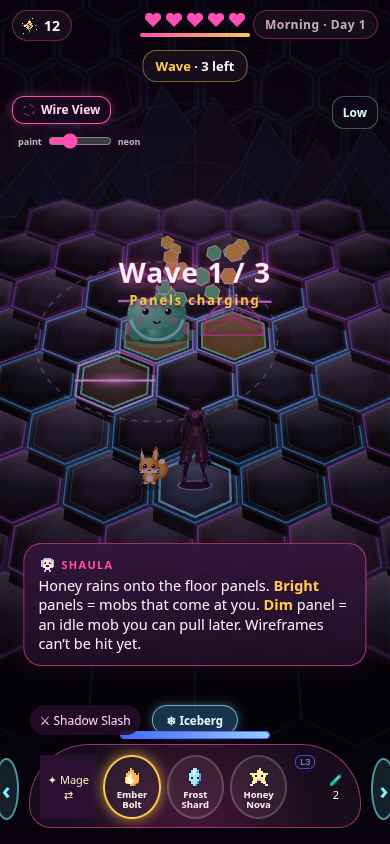
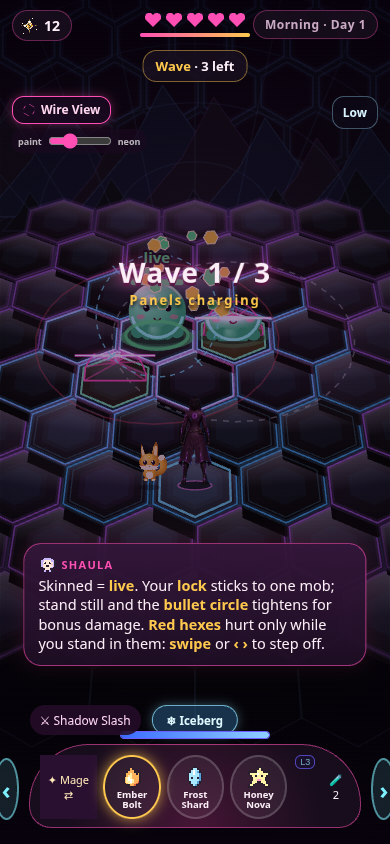
Keep a raid touch on the first finger until it lifts
A second finger, a spell change, Low, Back, and a turn of the phone drop the press instead of casting. A flick that only reports its distance on the lift still steps. Touch events in the regression are real Chrome touches, and the center hit stays 38 in the raid against 40 in the yard.

diff --git a/v7/index.html b/v7/index.html
@@ -1882,6 +1882,7 @@ function claimEnd() {
   setAct('Back to the map', () => endArena(), true);
 }
 function endArena() {
+  dropCanvasPress();
   setAct(null); coach(null); $('#bossCD').classList.add('hide'); $('#dangerV').style.opacity = 0; $('#wheel').classList.remove('on'); $('#hearts').classList.add('hide'); $('#menuBtn').classList.remove('dim');
   G.scene = 'map'; groundDirty = true; syncRoomLow(); if (typeof syncMapNav === 'function') syncMapNav(); const f = AR.onDone; AR.onDone = null; f && f();
 }
@@ -1909,7 +1910,8 @@ function cast(i, power = 1, target = null) {
   return true;
 }
 function noLive() { const [px, py] = pPos(), [X, Y] = proj(AR.cam, px, py); popText(X, Y - 130, AR.mobs.some(m => m.state === 'panel' || m.state === 'load' || m.state === 'skin') ? 'wireframes can’t be hit yet' : 'nothing live', '#7ff0ff', 13); }
-function selSpell(i) { AR.sel = i; $$('.sp').forEach((b, j) => b.classList.toggle('on', j === i)); }
+function dropCanvasPress() { AR.ptr = null; }
+function selSpell(i) { if (i !== AR.sel) dropCanvasPress(); AR.sel = i; $$('.sp').forEach((b, j) => b.classList.toggle('on', j === i)); }
 function updWheel() { { const b = $('#iceWall'), k = FIELD.wallCD / WALL_CD; b.querySelector('i').style.width = (k > 0 ? (1 - k) * 100 : 0) + '%'; b.classList.toggle('cd', k > 0 || !!FIELD.wall); } $$('.sp').forEach((b, j) => { const k = AR.cds[j] / SPELLS[j].cd; b.querySelector('i').style.height = (k > 0 ? (1 - k) * 100 : 0) + '%'; b.classList.toggle('cd', k > 0); }); }
 
 function arenaDown(X, Y) {
@@ -1954,6 +1956,12 @@ function releaseEmberAt(X, Y, aim, power) {
 function arenaUp(X, Y) {
   const p = AR.ptr; AR.ptr = null; if (!p || p.swiped) return;
   const held = (performance.now() - p.t0) / 1000;
+  const dx = X - p.x0, dy = Y - p.y0, travel = Math.hypot(dx, dy);
+  // A touch flick often reports its distance on the lift, after the move events were dropped.
+  if (!p.aiming && held < .45 && travel > 38) {
+    if (Math.abs(dx) > Math.abs(dy) * 1.3) { moveP(dx > 0 ? 1 : -1, 0); return; }
+    if (Math.abs(dy) > Math.abs(dx) * 1.3) { moveP(0, dy > 0 ? 1 : -1); return; }
+  }
   const aim = aimWorld(X, Y);
   // Ember in a map raid: a rested drag, or a tap that lands on your own wall and not on a creature.
   if (raidEmberAim() && (p.aiming || (!mobAt(X, Y) && typeof aimedOwnWall === 'function' && aimedOwnWall(aim)))) {
@@ -3534,17 +3542,21 @@ $('#act').addEventListener('click', () => { audioInit(); SFX.tap(); const f = ac
 $('#menuBtn').addEventListener('click', openRing);
 $$('.race').forEach(b => b.onclick = () => { G.race = b.dataset.r; if (G.race === 'slime') G.form = 'boba'; $$('.race').forEach(x => x.classList.toggle('sel', x === b)); SFX.tap(); });
 $('#titleGo').onclick = () => startDay();
-$$('.sp').forEach(b => b.addEventListener('click', () => { const i = +b.dataset.i; selSpell(i); cast(i, 1, null); }));
+$$('.sp').forEach(b => b.addEventListener('click', () => { dropCanvasPress(); const i = +b.dataset.i; selSpell(i); cast(i, 1, null); }));
 $('#iceWall').addEventListener('click', () => raiseWall());
 $('#dodgeL').addEventListener('pointerdown', e => { e.preventDefault(); dodge(-1); });
 $('#dodgeR').addEventListener('pointerdown', e => { e.preventDefault(); dodge(1); });
 
 /* ===================== input on the canvas ===================== */
 let mp = null;
-cv.addEventListener('pointerdown', e => { e.preventDefault(); audioInit(); const X = e.clientX, Y = e.clientY; if (G.scene === 'arena') arenaDown(X, Y); else { const [AX, AY, f] = proj(MAP.cam, MAP.house.x, MAP.house.y); mp = { x: X, y: Y, t: performance.now(), onMe: MAP.avOut && Math.hypot(X - AX, Y - (AY - 22 * f)) < 46 }; } }, { passive: false });
-cv.addEventListener('pointermove', e => { if (G.scene === 'arena') arenaMove(e.clientX, e.clientY); else if (mp && !mp.onMe && e.clientY - mp.y > 90 && Math.abs(e.clientX - mp.x) < 60 && G.step >= 5) { mp = null; openRing(); } });
-cv.addEventListener('pointerup', e => { const X = e.clientX, Y = e.clientY; if (G.scene === 'arena') arenaUp(X, Y); else if (mp) { const dx = X - mp.x, dy = Y - mp.y; if (Math.hypot(dx, dy) < 14) mapTap(X, Y); else if (mp.onMe && Math.hypot(dx, dy) > 24) dragStep(dx, dy); } mp = null; });
-cv.addEventListener('pointercancel', () => { AR.ptr = null; mp = null; });
+function pressOwns(e) { return !AR.ptr || AR.ptr.id == null || AR.ptr.id === e.pointerId; }
+cv.addEventListener('pointerdown', e => { e.preventDefault(); audioInit(); const X = e.clientX, Y = e.clientY; if (G.scene === 'arena') { if (AR.ptr && AR.ptr.id != null && AR.ptr.id !== e.pointerId) return; arenaDown(X, Y); if (AR.ptr) AR.ptr.id = e.pointerId; } else { const [AX, AY, f] = proj(MAP.cam, MAP.house.x, MAP.house.y); mp = { x: X, y: Y, t: performance.now(), onMe: MAP.avOut && Math.hypot(X - AX, Y - (AY - 22 * f)) < 46 }; } }, { passive: false });
+cv.addEventListener('pointermove', e => { if (G.scene === 'arena') { if (!pressOwns(e)) return; arenaMove(e.clientX, e.clientY); } else if (mp && !mp.onMe && e.clientY - mp.y > 90 && Math.abs(e.clientX - mp.x) < 60 && G.step >= 5) { mp = null; openRing(); } });
+cv.addEventListener('pointerup', e => { const X = e.clientX, Y = e.clientY; if (G.scene === 'arena') { if (!pressOwns(e)) return; e.preventDefault(); arenaUp(X, Y); } else if (mp) { const dx = X - mp.x, dy = Y - mp.y; if (Math.hypot(dx, dy) < 14) mapTap(X, Y); else if (mp.onMe && Math.hypot(dx, dy) > 24) dragStep(dx, dy); } mp = null; });
+cv.addEventListener('touchend', e => { if (G.scene === 'arena') e.preventDefault(); }, { passive: false });
+cv.addEventListener('pointercancel', e => { if (!pressOwns(e)) return; AR.ptr = null; mp = null; });
+cv.addEventListener('touchcancel', () => { AR.ptr = null; mp = null; });
+cv.addEventListener('lostpointercapture', e => { if (AR.ptr && AR.ptr.id != null && AR.ptr.id === e.pointerId) AR.ptr = null; });
 $('#fishC').addEventListener('pointerdown', e => { e.preventDefault(); if (FI.phase === 'aim') fishCharge(); else fishTap(); });
 ['pointerup', 'pointerleave', 'pointercancel'].forEach(n => $('#fishC').addEventListener(n, () => { if (FI.charging) fishTap(); }));
 addEventListener('keyup', e => { if (e.key === ' ' && FI.charging) fishTap(); });
@@ -3564,6 +3576,7 @@ function resize() {
   DPR = Math.min(2, window.devicePixelRatio || 1); W = innerWidth; H = innerHeight;
   cv.width = W * DPR | 0; cv.height = H * DPR | 0; ctx.setTransform(DPR, 0, 0, DPR, 0, 0);
   layoutMapCam(); layoutArenaCam(); groundDirty = true;
+  dropCanvasPress();
 }
 addEventListener('resize', resize);
 function dayTint() {
@@ -4073,6 +4086,7 @@ function syncRoomLow() {
 }
 function toggleRoomLow() {
   if (TRAIN.on || G.scene !== 'arena' || AR.kind !== 'raid') return;
+  dropCanvasPress();
   AR.roomLow = !AR.roomLow;
   layoutArenaCam();
   syncRoomLow();
@@ -4876,7 +4890,10 @@ cv.addEventListener('pointermove', e => {
     pinchD = d;
   }
 }, true);
-function endMapPtr(e) { mapPtrs.delete(e.pointerId); if (mapPtrs.size < 2) pinchD = 0; if (e.type === 'pointercancel') interruptCharge('Charge cancelled'); }
+function endMapPtr(e) {
+  mapPtrs.delete(e.pointerId); if (mapPtrs.size < 2) pinchD = 0;
+  if (e.type === 'pointercancel' && (!AR.ptr || AR.ptr.id == null || AR.ptr.id === e.pointerId || TRAIN.cap)) interruptCharge('Charge cancelled');
+}
 window.addEventListener('pointerup', e => {
   if (!TRAIN.on || G.scene !== 'arena') return;
   if (e.target === cv) return;

diff --git a/v7/HANDOFF.md b/v7/HANDOFF.md
@@ -10,8 +10,8 @@ Live `/v7/` on main is unchanged. Nothing here was merged or deployed.
 - Views: **Tactical** is the default. **Low** is an optional closer-to-the-floor arena camera (same aim math). **First person** is unchanged. Details are below.
 - Gunner: holding does not fire. The shot happens on release.
 - Slash cuts the hexes you aimed. The first step into a trench says to tap again, including when the fight clock is still 0. The next step enters. Ember on that trench is a lava seam and burns while you stand in it. Reset and the 14 second life both clear it. A mob that walks into the cut is stopped by the same obstacle check the arena uses.
-- Training yard, Mage disc: Iceberg raises your wall at 90 HP. Ember aimed at that wall, on the glowing center, hits for 40 (full-charge power 1.65, weak point 2×). Three of those remove it: cracked hexes and ice chunks. Frost and a shot at empty ground do not damage it. A lift after the cast does not hit again.
-- Map raid, Ember on the spell wheel, Tactical and Low: hold the field about a quarter second and a ring labels **Ice wall**, **Enemy**, or **Ground**. Release on your own wall to hit it. A hold of about a second is 19 damage, 38 on the center. Three center holds shatter 90. A short tap on the wall is 12, or 24 on the center. Empty ground paints fire and does not hit the wall. A finger on a creature casts at that creature. Frost and Honey do not use this aim. A fast swipe still steps. A cancelled touch does not cast. The training disc is not drawn in the map raid, so it does not cover the wall. The spell wheel, dodge, Iceberg button, and swipes stay.
+- Training yard, Mage disc: Iceberg raises your wall at 90 HP. Ember aimed at that wall, on the glowing center, hits for **40** (full-charge power 1.65 × 12, weak point ×2). Three of those remove it. Frost and empty ground do not. A lift after the cast does not hit again. This 40 is the yard disc only.
+- Map raid, Ember on the spell wheel, Tactical and Low: hold the field about a quarter second. The ring labels **Ice wall**, **Enemy**, or **Ground**. Release on your own wall to hit it. A hold of about a second is 19 damage, **38** on the center (power 1.6 × 12, weak point ×2). Three center holds go 90, then 52, then 14, then the wall shatters. A short tap is 12, or 24 on the center. Empty ground paints fire and does not hit the wall. A finger on a creature casts at that creature, even if the creature is standing on the wall. Frost and Honey do not use this aim. A fast swipe still steps. A second finger does not take the aim. A cancelled touch, a spell change, the Low button, Back, or a turn of the phone drops the press and the lift does not cast. The spell wheel and the dodge buttons stay. The training disc is not drawn in the map raid.
 - Gel King bout is on the title. A full fight from 160 HP, without editing his health, can be won with Ember while stepping off red. One run of the test below did that in 7 casts.
 - Raid: walk to the dome, **Enter the raid dome**, then tap the glass block. That punch starts the wave. **Back to the map** uses `endArena()` and returns to the map.
 
@@ -27,12 +27,15 @@ From the repo, with the page already served at `http://127.0.0.1:8765/v7/` and C
 CHROME=/usr/local/bin/google-chrome node v7/regress.mjs
 ```
 
-Two kinds of check live in that file. Do not treat them as the same thing.
+Three kinds of check live in that file. Do not treat them as the same thing.
 
-- **Helper-level.** These call game functions. They do not move the pointer. Mage early / full / lift / view-switch and the Gunner hold versus release go through `releaseDisc`, `releaseMage`, and `trainUpdate`. The training iceberg (90 HP, weak 40, three-hit shatter, frost and empty ground) also calls `releaseMage`. The trench step, mob block, lava burn, expiry, and reset call `moveP`, `mobObstacle`, and `slashLine`. The Gel King fight calls `releaseMage` from 160 HP. None of these invoke `wallHit` directly, and none of them are a finger on the raid canvas.
-- **UI-interaction.** These use real clicks and pointer events on the page. Raid enter, the glass punch, and Back are clicks. The map-raid wall test, `raidWallPointer`, enters from the map, punches, clicks Iceberg, and then uses `mouse` down / move / up. It does not call `wallHit` or `releaseMage`. For Tactical and Low, at 320×568, 390×844, and 844×390, it checks: a live enemy is on screen, empty ground leaves the wall at 90, a swipe steps and does not hit the wall, pointercancel does not hit, Frost on the wall does not damage it, the hold reports Ice wall, and Ember center holds of about a second deal 38 and shatter. It also checks 320×568, 390×844, and 844×390 that the training buttons and the cast line do not cover the dummies or the player, and that the page does not scroll.
+- **Helper-level.** These call game functions. They do not move a finger. Mage early / full / lift / view-switch and the Gunner hold versus release go through `releaseDisc`, `releaseMage`, and `trainUpdate`. The training iceberg is the **40** center hit: 90 HP, three hits, shatter, frost and empty ground. That calls `releaseMage`. The trench step, mob block, lava burn, expiry, and reset call `moveP`, `mobObstacle`, and `slashLine`. The Gel King fight calls `releaseMage` from 160 HP. None of these call `wallHit` directly, and none of them are a finger on the raid canvas.
+- **Mouse UI.** `raidWallPointer` enters from the map, punches the glass block, clicks Iceberg, and uses mouse down / move / up. It does not call `wallHit` or `releaseMage`. Tactical and Low, at 320×568, 390×844, and 844×390: a live enemy is on screen, empty ground leaves the wall at 90, a swipe steps, pointercancel does not hit, Frost on the wall does not damage it, the hold reports Ice wall, and Ember center holds deal **38** and shatter (90, 52, 14, gone). Layout checks at those three sizes still show the dummies and the player, and the page does not scroll.
+- **Touch UI.** `raidTouch` uses Chrome's touch events (`Input.dispatchTouchEvent` with touch emulation). The page recorded `pointerType: "touch"` and a `touchstart`. This is not a physical phone. The same six raid views checked empty ground, a creature (the wall stayed at 90; the creature lost HP when the point landed on its sprite), a second finger, `touchcancel`, a spell-button press while a finger was down, and center holds of about a second. Those holds were **38** on the center and the wall shattered in every view. Turning the phone (390×844 to 844×390) and the Low button each dropped the press with the wall still at 90. In the yard, a touch on the disc followed by Reset or Back did not cast.
 
-Last run of the whole file, helper checks and the pointer cases together, passed.
+Last run of the whole file passed: helper checks, mouse UI, and touch UI together.
+
+A touch flick on the back row of the field often did not step in this Chrome, and it did not damage the wall. One did step (320×568, Low, q −1 to 0). Mouse flicks stepped at all three sizes and both cameras. A flick whose distance shows up only on the lift now steps, when the aim ring is not already up and the lift is within about half a second. Dodge still stepped while a finger was on the field, including on 320×568.
 
 ## Pictures
 
@@ -92,6 +95,14 @@ After the aimed Ember holds. Shattered, player and slime still there:
 
 ![Low](handoff/low_after.png)
 
-## Not in this build
+## What this acceptance changed
 
-No tracked hand through the disc. No walking slime. No characters taken from the concept paintings. No new Gel King attacks. Root `index.html` and `v6/` are unchanged.
+A second finger no longer replaces the press or fires it. The spell wheel, the Low button, Back, and a resize or turn of the phone drop the press, so the lift does not cast the old aim. `pointercancel` and `touchcancel` drop it too. The spell wheel and the dodge buttons are unchanged.
+
+## Still open
+
+- No phone in hand. iOS Safari can cancel a touch on rotation at a different moment than this Chrome. The events here were synthesized touches, and they did arrive as `pointerType: "touch"`.
+- A touch flick on the far side of the raid often did not move the player in this Chrome. The mouse flick did, at every size. The touch flick did not hit the wall.
+- If a creature is standing on the center of the wall, the ring says Enemy and the cast hits the creature. Aim a clear part of the wall to get the 38.
+- Frost and Honey do not shatter a wall. The yard's 40 and the raid's 38 are different holds. Do not mix them.
+- The pits are still one hex deep. The rocks are simple peaks. No tracked hand, no walking slime, no characters from the paintings. Root `index.html` and `v6/` are unchanged. Not merged. Not deployed.
